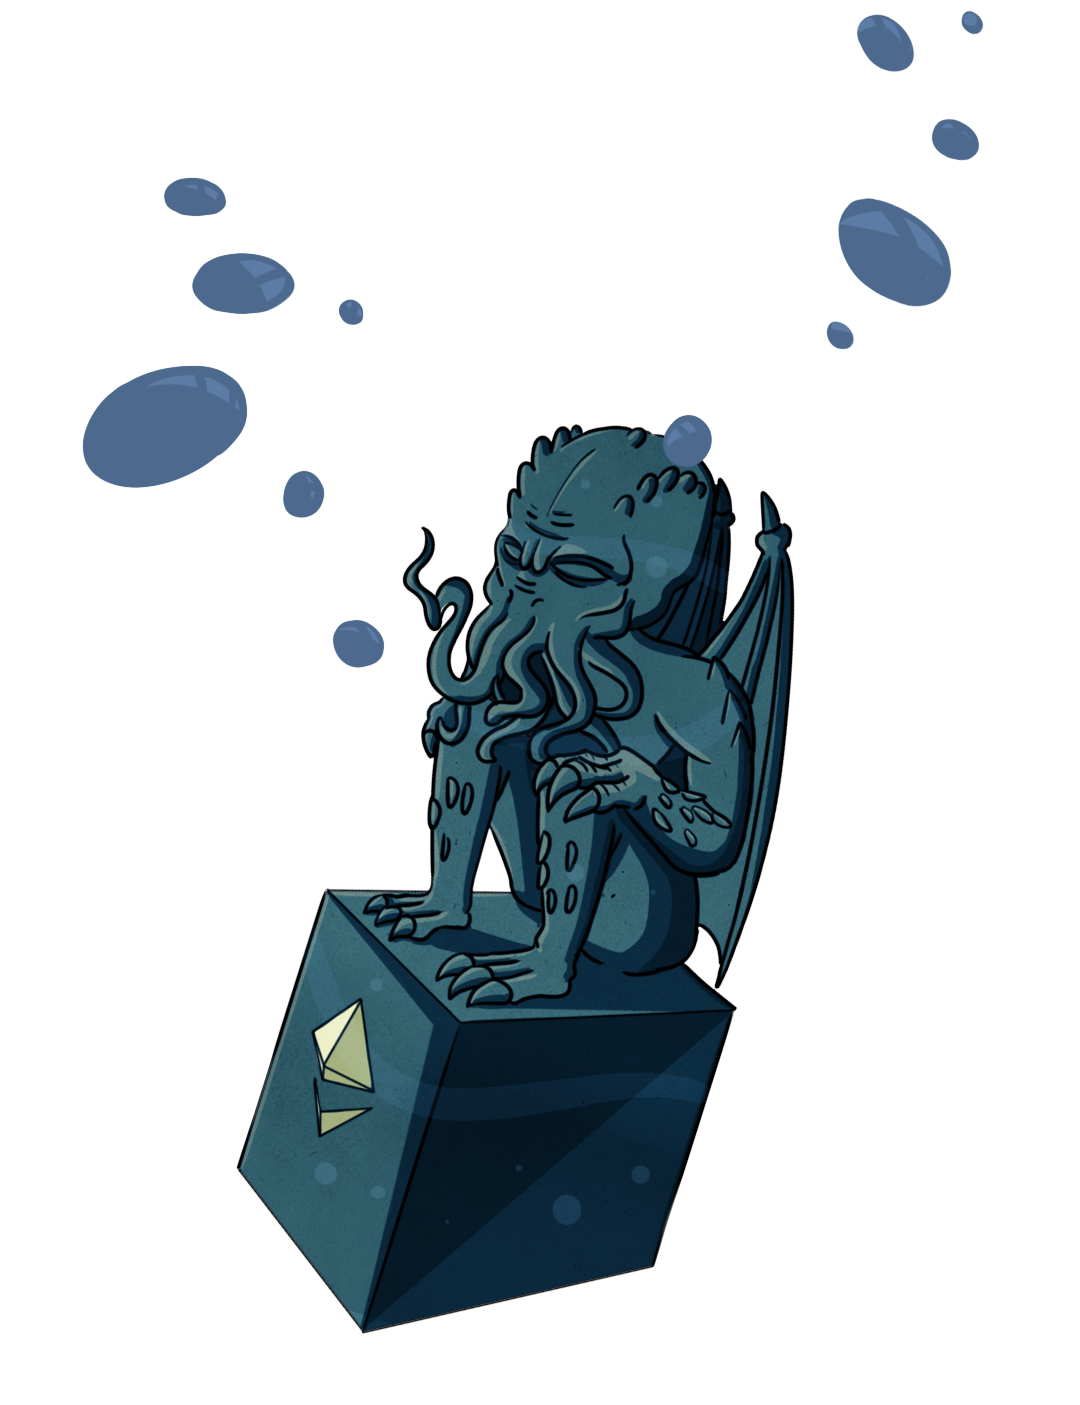
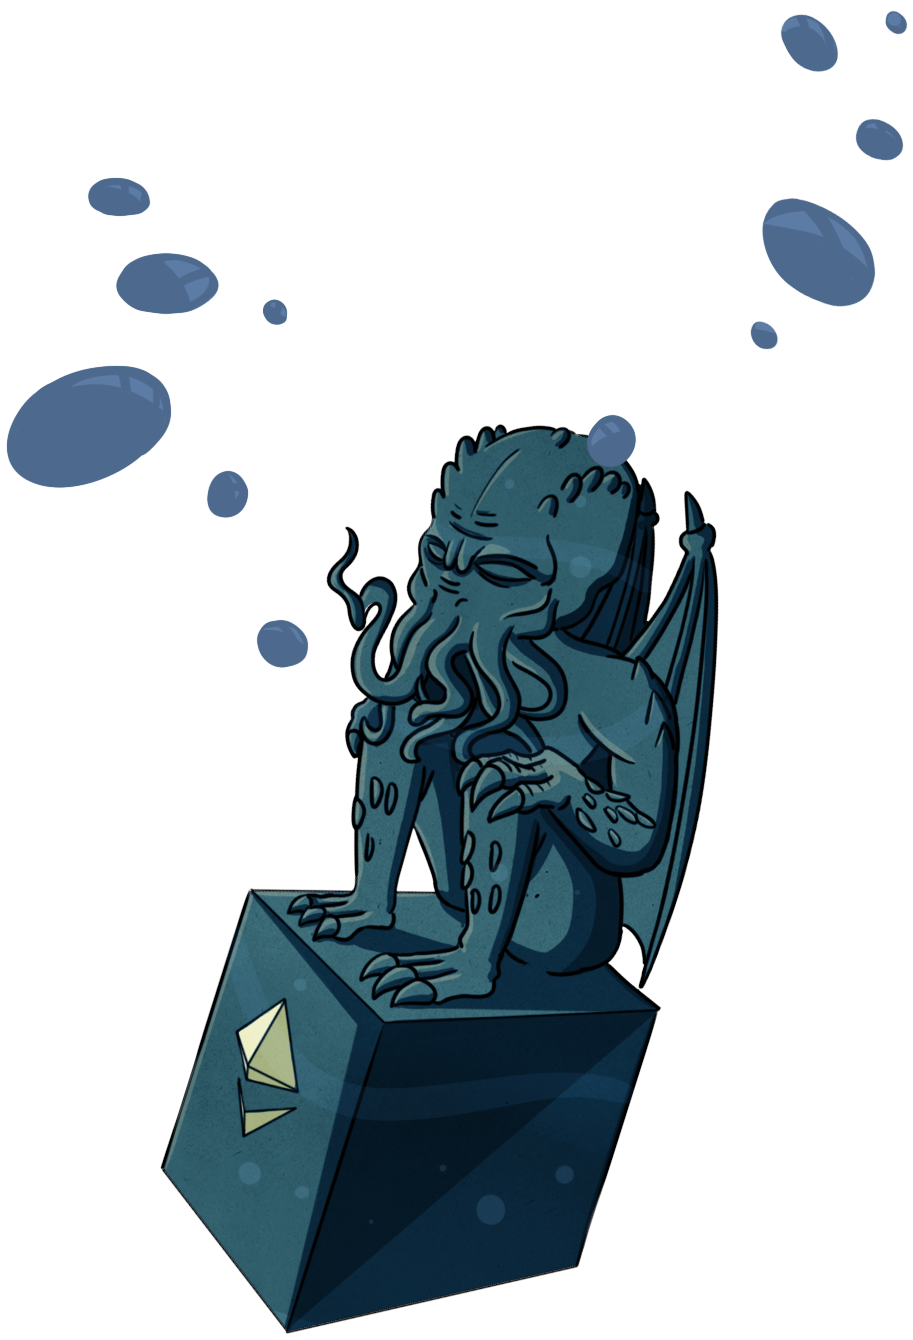
Fix text

diff --git a/styles/Home.module.css b/styles/Home.module.css
@@ -119,13 +119,12 @@
 }
 
 .statuediv {
-  overflow: hidden;
+  position: absolute;
 }
 
 .statue {
-  left: 0;
-  width: 50%;
-  position: absolute;
+  margin-left: 30%;
+  width: 80%;
   opacity: 0.90;
 }
 
@@ -226,7 +225,7 @@
 .buttonDreammap{
   height: 60px;
   margin-top: 50px;
-  font-size: 36px;
+  font-size: 30px;
   font-weight: 600;
   color: black;
   border-radius: 40px;
@@ -676,7 +675,7 @@
   }
   
   .buttonBox h1{
-    font-size: 45px;
+    font-size: 42px;
     line-height: 1.2;
   }
 
@@ -693,11 +692,15 @@
     align-items: center;
   }
 
+  .reefRight{
+    padding-top: 400px;
+   }
+
   .hiddenCthulhu{
-    width: 200px;
+    width: 90%;
     border-radius: 0.5rem;
   }
-
+  
   .newButton{
     margin: 20px 0;
     width: 200px;
@@ -739,9 +742,10 @@
   }
 
   .buttonBox p{
-    font-size: 1.6rem;
+    font-size: 28px;
+    color: #C8C8C8;
   }
-
+ 
   .hiddenCthulhu{
     width: 40vw;
     height: auto;
@@ -1005,7 +1009,7 @@
 	padding: 30px;
 }
 .timelineContent h3{
-  font-size: 3rem;
+  font-size: 42px;
 	color: #ffffff;
 	margin:0 0 10px;
 	text-transform: capitalize;
@@ -1014,7 +1018,7 @@
 }
 .timelineContent p{
     color: #c8c8c8;
-	font-size: 2rem;
+	font-size: 28px;
 	font-weight: 300;
 	line-height: 2rem;
 }
@@ -1035,6 +1039,9 @@
 	.timelineDot{
 		left:0;
 	}
+  .timelineContent{
+    padding: 0px;
+  }
 }
 
 /* START TEAM CSS CARD */

diff --git a/pages/index.tsx b/pages/index.tsx
@@ -78,7 +78,6 @@ const Home: NextPage = () => {
         </section>
         {/* Roadmap SECTION */}
         <h1 className={styles.titlesHome}>DREAM MAP</h1>
-        <div className={styles.statuediv}><img className={styles.statue} src={statue.src} alt="drop" /></div>
         <div><img className={styles.fishRight} src={fish.src} alt="drop" /></div>
         <div className={styles.waves}></div>
         <section className={styles.timelineSection}>
@@ -106,7 +105,6 @@ const Home: NextPage = () => {
 			<div className={styles.timelineContent}>
 				<h3>collection nft</h3>
         <p>937 tickets pour devenir membre du bureau priv&eacute; des investigateurs visionnaires.
-
         </p>
         <button 
             className={styles.buttonDreammap}
@@ -117,6 +115,7 @@ const Home: NextPage = () => {
             QUELS AVANTAGES ?
           </span>
           </button>
+          <div className={styles.statuediv}><img className={styles.statue} src={statue.src} alt="drop" /></div>
 			</div>
 		</div>
 		<div className={styles.timelineItem}>
